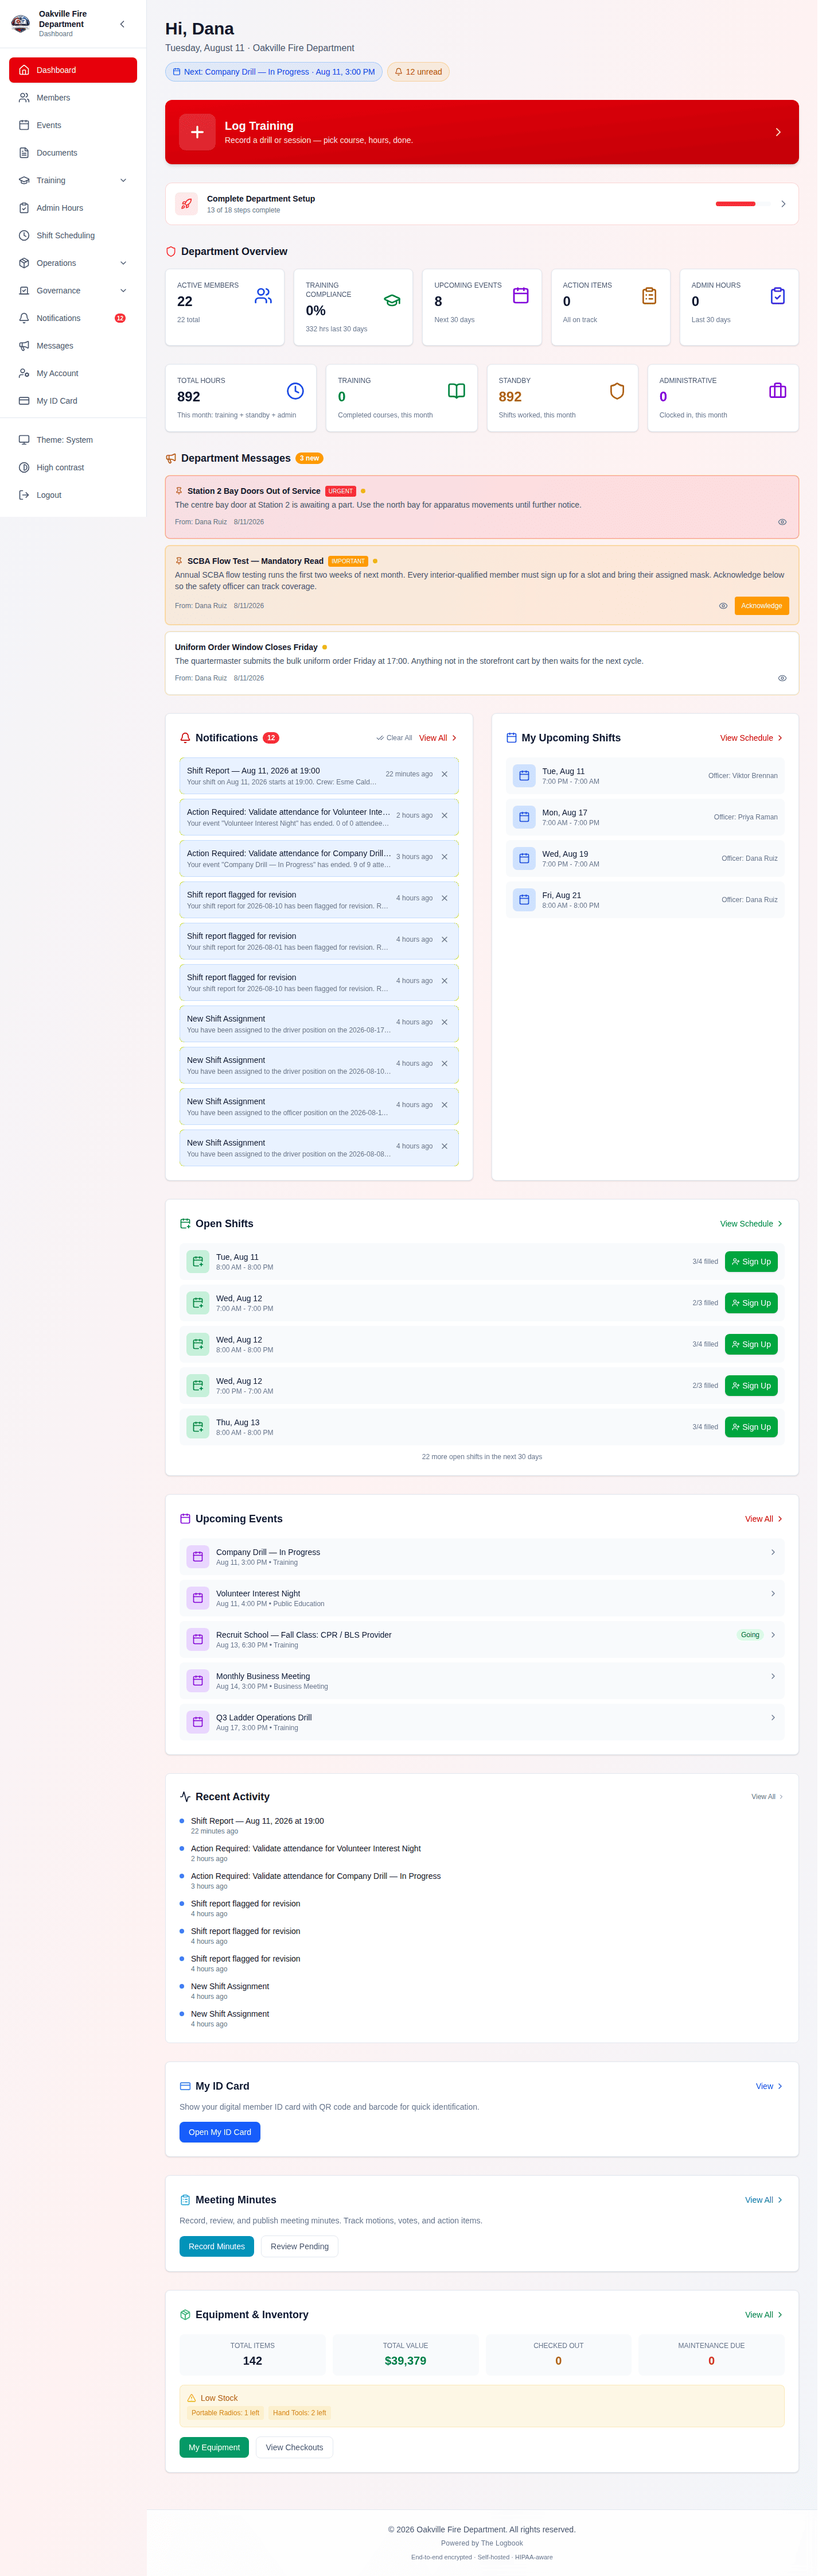
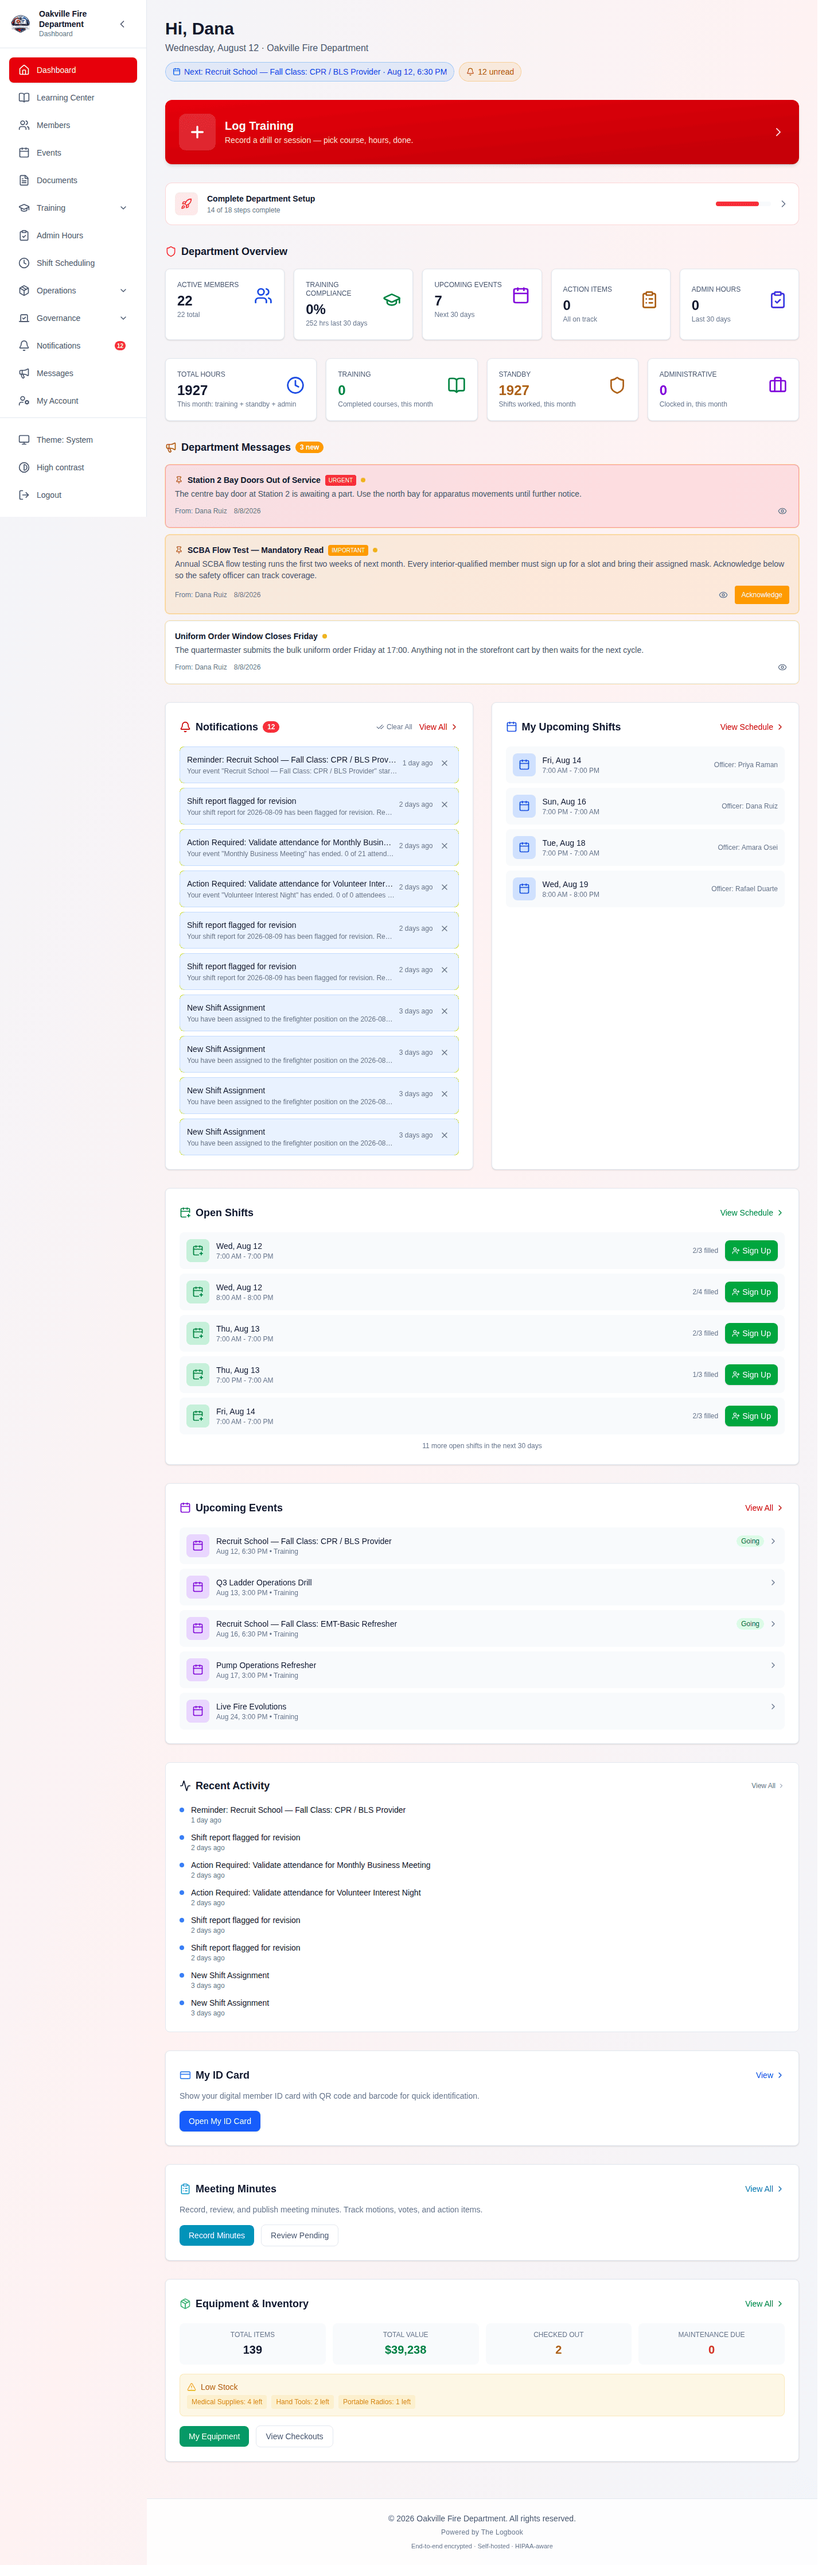
docs(00): finish the getting-started re-verification
`00-07-dashboard-panels` is the last of guide 00's eleven changed images, and
it is current — its resize is content growth, not layout. Guide 00 is done.

Documented the Department Overview's Training Compliance card, which reads 0%
beside "252 hrs last 30 days" in three of these images and looks like a
contradiction. It is not: `compute_org_compliance_pct` counts members who
satisfy *every* active requirement, the demo department has 36, and the hours
figure beside it is unrelated. So a member short on one requirement counts the
same as one short on all of them, and the card stays at 0% until somebody
clears the lot. The computation is deliberate and is left alone; the guide's
stats list called it "training completion rates", which named it as something
it is not.

Claude-Session: https://claude.ai/code/session_01MR3YDBTkhiX8tzyQovuUKc

diff --git a/docs/training/00-getting-started.md b/docs/training/00-getting-started.md
@@ -227,7 +227,7 @@ Below the member-facing pages and above the Administration section, you will fin
 
 The dashboard is your landing page after login. It provides an at-a-glance view of what matters most:
 
-- **Quick Stats** - Total members, active members, upcoming events, training completion rates
+- **Quick Stats** - Total members, active members, upcoming events, training compliance
 - **Your Hours** - Four cards: **Total Hours** plus the three things it adds up — **Training**, **Standby**, and **Administrative**. Every one of them is **month-to-date**, and each card says what it counts underneath the number
 - **Upcoming Events** - The next few scheduled events
 - **Upcoming Shifts** - Your next assigned shifts
@@ -236,6 +236,18 @@ The dashboard is your landing page after login. It provides an at-a-glance view 
 - **Department Messages** - Organization-wide announcements from administrators. Urgent messages are highlighted (and may also reach you by email/text), some ask you to **Acknowledge** them, and persistent messages remain visible until an admin clears them. Your full message history lives on the **Messages** page (megaphone icon)
 
 ![Dashboard stats cards, notifications, upcoming events, and upcoming shifts](./images/00-07-dashboard-panels.png)
+
+> **Training Compliance is all-or-nothing, and that is why it reads 0%**
+> _(2026-08-13)_. The card counts the share of active members who satisfy
+> **every** active training requirement — not the share of requirements met, and
+> nothing to do with the hours figure printed beneath it. A department with 36
+> active requirements will show 0% until somebody clears all 36, even with
+> hundreds of hours logged, and a member short on one requirement counts the
+> same as a member short on all of them.
+>
+> Read it as "how many people are finished", not "how are we doing". For
+> anything finer-grained, use the compliance matrix under **Training Admin**,
+> which reports per-requirement rather than per-member.
 
 > **Hint:** The dashboard is personalized. Officers and administrators see additional summary cards with department-wide metrics. Regular members see their own upcoming items and assignments.
 

diff --git a/docs/training/SCREENSHOT_CURRENCY.md b/docs/training/SCREENSHOT_CURRENCY.md
@@ -43,7 +43,22 @@ committed. Images that changed but were not opened are deliberately left
 uncommitted rather than taken on trust — see the navigation incident below for
 why that rule exists.
 
-### 00-getting-started — 10 of 11 changed images verified
+### 00-getting-started — complete, 11 of 11 changed images verified
+
+Third tick closed it out with `00-07-dashboard-panels`: current, and its
+resize is content growth rather than layout. Guide 00 is done.
+
+**What appearing in three images finally prompted.** The Department Overview's
+**Training Compliance 0%** sits next to "252 hrs last 30 days", which reads as a
+contradiction. It is not a bug: `compute_org_compliance_pct` counts members who
+satisfy **every** active requirement, and the demo department has 36 of them, so
+0% is arithmetically right and the hours figure beside it is unrelated. Left the
+computation alone and documented the card instead — the same call as the
+"Failed 100%" finding: correct, deliberate, and easy to misread. The guide's
+stats list also said "training completion rates", which named it as something
+it is not.
+
+### 00-getting-started — earlier ticks, 10 of 11 changed images verified
 
 Second tick added five: `00-09-account-settings`, `00-16-sidebar-admin`,
 `00-17-account-settings`, `00-19-change-password`,
